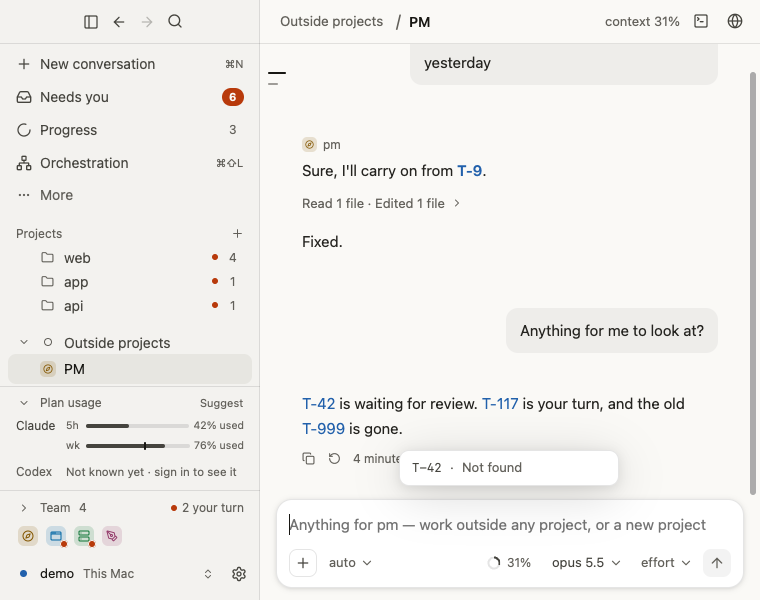
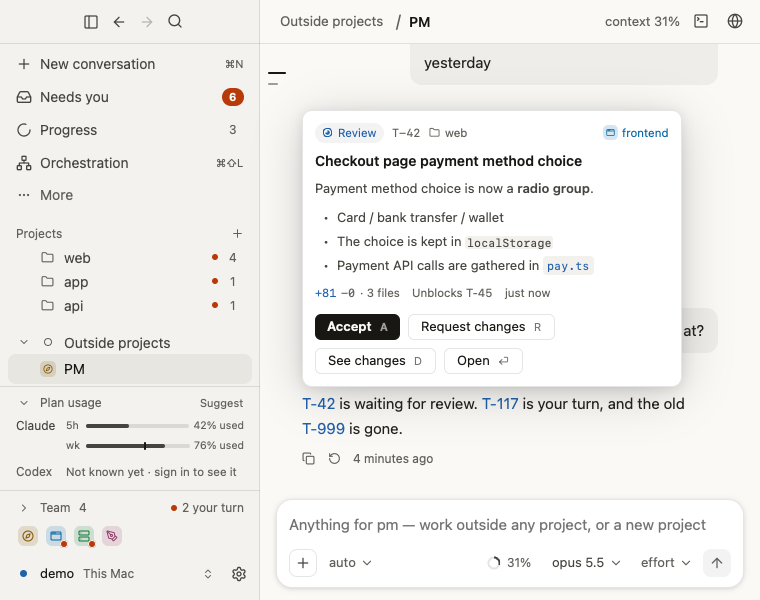
Ticket card: spinner while looking, anchor follows the link, fake daemon lookup no longer deadlocks; shots per width

diff --git a/design/flows/shoot-desktop.py b/design/flows/shoot-desktop.py
@@ -33,7 +33,8 @@ MODES = ["light", "dark"]
 # (flow/screen/state, fake daemon env, snapshot steps, options)
 # options: ask_telemetry (leave the usage question unanswered), no_daemon
 # (nothing to attach to), kill_daemon_ms (stop the daemon that long after
-# the app starts), lang, sizes, wait (ms after the steps, before shots).
+# the app starts), lang, sizes, wait (ms after the steps, before shots), at
+# ({width: steps} run after the window takes that width).
 STATES = []
 
 
@@ -79,9 +80,13 @@ state("conversation/chat/loading", "chat;say:Where are you up to?;wait:1500", {"
 state("conversation/chat/long", "chat;wait:800", {"FAKE_READING": "1"})
 state("conversation/chat/pictures", "chat;wait:800", {"FAKE_REPLY_IMAGES": "1"}, wait=2500)
 state("conversation/chat/ticket-cards", "chat;wait:800", {"FAKE_CARDS": "1"})
-state("conversation/chat/ticket-card-missing", "chat;wait:800;hover:806,432;wait:1500", {"FAKE_CARDS": "1", "FAKE_ASKS": "0"}, label="A ticket card for a number not on the board: Not found")
-state("conversation/chat/ticket-card-missing-long", "chat;wait:800;hover:806,432;wait:1500", {"FAKE_CARDS": "1", "FAKE_ASKS": "0"}, lang="de", label="A ticket card for a number not on the board, in German")
-state("conversation/chat/ticket-card-recovered", "chat;wait:800;hover:421,432;wait:1500", {"FAKE_CARDS": "1", "FAKE_ASKS": "0", "FAKE_STALE": "42"}, label="A ticket card for a ticket the list missed: looked up, shown")
+state("conversation/chat/ticket-card-missing", "chat;wait:800", {"FAKE_CARDS": "1", "FAKE_ASKS": "0"}, at={1200: "hover:806,432;wait:1500", 760: "hover:323,429;wait:1500"}, label="A ticket card for a number not on the board: Not found")
+state("conversation/chat/ticket-card-missing-long", "chat;wait:800", {"FAKE_CARDS": "1", "FAKE_ASKS": "0"}, lang="de", at={1200: "hover:806,432;wait:1500", 760: "hover:323,429;wait:1500"}, label="A ticket card for a number not on the board, in German")
+state("conversation/chat/ticket-card-recovered", "chat;wait:800", {"FAKE_CARDS": "1", "FAKE_ASKS": "0", "FAKE_STALE": "42"}, at={1200: "hover:421,432;wait:1500", 760: "hover:318,404;wait:1500"}, label="A ticket card for a ticket the list missed: looked up, shown")
+state("conversation/chat/ticket-card-large", "chat;wait:800;zoom:in;zoom:in;wait:600;hover:398,535;wait:1500", {"FAKE_CARDS": "1", "FAKE_ASKS": "0", "FAKE_STALE": "42"}, sizes=[(1200, 760)], label="Large text")
+# One width each: the lookup runs out in a few seconds, and a resize takes longer than that.
+state("conversation/chat/ticket-card-looking", "chat;wait:800;hover:421,432;wait:700", {"FAKE_CARDS": "1", "FAKE_ASKS": "0", "FAKE_STALE": "42", "FAKE_NO_LOOKUP": "1"}, sizes=[(1200, 760)], wait=0, label="A ticket card the list missed, while the daemon is still asked")
+state("conversation/chat/ticket-card-looking-narrow", "chat;wait:800", {"FAKE_CARDS": "1", "FAKE_ASKS": "0", "FAKE_STALE": "42", "FAKE_NO_LOOKUP": "1"}, sizes=[(760, 600)], at={760: "hover:318,404;wait:700"}, wait=0, label="The same, at the narrowest width")
 state("conversation/chat/ask-list", "chat;wait:800", {"FAKE_ASKLIST": "1"})
 state("conversation/chat/diagram", "chat;say:torture 5;wait:5000", {"FAKE_SECONDS": "1"})
 state("conversation/chat/markdown", "chat;say:torture 1;wait:6000", {"FAKE_SECONDS": "1"})
@@ -368,6 +373,8 @@ def run_state(item, bin_dir, root):
     script.append(f"wait:{opts.get('wait', 900)}")
     for w, h in opts.get("sizes", SIZES):
         script += [f"size:{w}x{h}", "wait:700"]
+        # Where the text falls changes with the width: a pointer resting on it moves with it.
+        script += [x for x in opts.get("at", {}).get(w, "").split(";") if x]
         for mode in MODES:
             script += [f"theme:{mode}", "wait:500", f"shot:{out}/{st}.{mode}.{w}.png"]
     script.append("quit")

diff --git a/crates/desktop/src/views/ticket_card.rs b/crates/desktop/src/views/ticket_card.rs
@@ -222,9 +222,10 @@ impl Hover {
             Phase::Open { inside: true, .. } | Phase::Open { keys: true, .. } => false,
             // On its way to the card: a link it passes over isn't where it's going.
             Phase::Open { target: shown, .. } if shown.id != target.id && self.heading_in(shown) => false,
+            // The same link again: where it is now (the text may have reflowed under an open card).
             Phase::Open { target: shown, left, .. } if shown.id == target.id => {
-                self.phase = Phase::Open { target: shown, inside: false, left: None, keys: false };
-                left.is_some()
+                self.phase = Phase::Open { target, inside: false, left: None, keys: false };
+                left.is_some() || shown.anchor != target.anchor
             }
             // From one card to the next link: the next card at once.
             Phase::Open { .. } | Phase::Done { .. } => {
@@ -806,6 +807,7 @@ fn missing(p: Palette, id: TicketId, gone: bool) -> AnyElement {
         .text_size(px(SMALL))
         .child(div().font_family(MONO).text_size(px(12.)).text_color(p.text2).child(format!("T-{id}")))
         .child(div().text_color(p.muted).child("·"))
+        .when(!gone, |row| row.child(crate::motion::spinner(11., p.muted)))
         .child(div().text_color(p.muted).child(if gone { t!("card.not_found") } else { t!("card.loading") }))
         .into_any_element()
 }

diff --git a/crates/desktop/examples/fake_daemon.rs b/crates/desktop/examples/fake_daemon.rs
@@ -981,10 +981,12 @@ fn on_board_command(command: &Command) -> Option<Vec<Event>> {
             let entries = records().lock().unwrap().get(ticket).cloned().unwrap_or_default();
             Some(vec![Event::TicketHistory { squad: squad(), ticket: *ticket, entries }])
         }
+        // `FAKE_NO_LOOKUP=1`: a daemon slow to answer, to shoot a card that is still looking.
+        Command::TicketHistory { .. } if std::env::var_os("FAKE_NO_LOOKUP").is_some() => Some(Vec::new()),
         Command::TicketHistory { ticket, .. } => {
             let entries = records().lock().unwrap().get(ticket).cloned().unwrap_or_default();
             // As the daemon does: the ticket first, if it has it.
-            let mut out: Vec<Event> = tickets().lock().unwrap().iter().find(|t| t.id == *ticket).map(|t| Event::TicketChanged { squad: squad(), ticket: t.clone() }).into_iter().collect();
+            let mut out: Vec<Event> = all.iter().find(|t| t.id == *ticket).map(|t| Event::TicketChanged { squad: squad(), ticket: t.clone() }).into_iter().collect();
             out.push(Event::TicketHistory { squad: squad(), ticket: *ticket, entries });
             Some(out)
         }

diff --git a/crates/desktop/src/state.rs b/crates/desktop/src/state.rs
@@ -1357,7 +1357,7 @@ impl Model {
         // A member starting or leaving may be a move to the other engine.
         let comes_or_goes = matches!(event, Event::SessionStarted { .. } | Event::SessionClosed { .. });
         match event {
-            Event::TicketChanged { ticket, .. } => { { use std::io::Write; let _ = writeln!(std::fs::OpenOptions::new().create(true).append(true).open("/tmp/t585.log").unwrap(), "changed {}", ticket.id); } self.on_ticket(&ticket) }
+            Event::TicketChanged { ticket, .. } => self.on_ticket(&ticket),
             Event::TicketHistory { squad, ticket, entries } if squad == self.squad => {
                 // The ticket itself comes before its record: still not here, it is not on the board.
                 if !self.tickets.iter().any(|t| t.id == ticket) {
